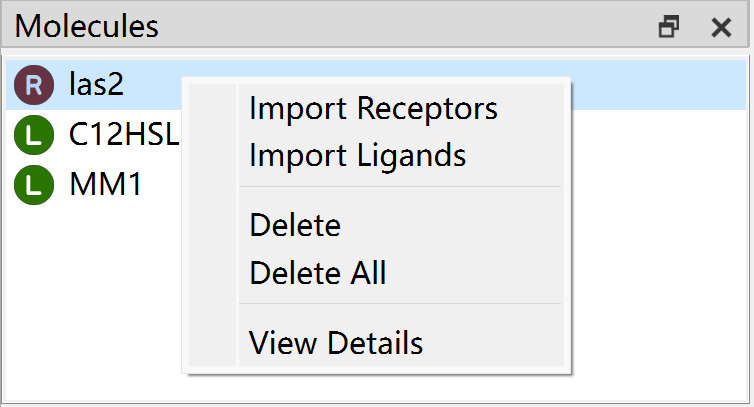
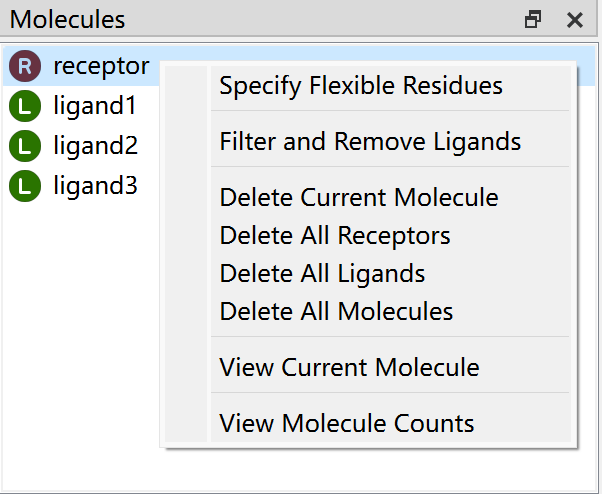
update docs

Changed region(s): [[0.0, 0.0, 1.0, 1.0]]

diff --git a/src/window.py b/src/window.py
@@ -1189,14 +1189,22 @@ class DockeyMainWindow(QMainWindow, PyMOLDesktopGUI):
 		r = self.get_current_receptor()
 
 		if not r: return
-		residues = self.cmd.iterate('resn')
 
-		print(residues)
+		items = []
+		for res in get_molecule_residues(r.content, r.format):
+			items.append("Chain {}, {}-{}".format(res[1], res[2].capitalize(), res[3]))
 
-		#points = self.cmd.get_extent()
-		#self.box_adjuster.params.update_dimension(points)
-		#draw_gridbox(self.cmd, self.box_adjuster.params)
-		#self.box_dock.setVisible(True)
+		res, ok = QInputDialog.getItem(self, "Select a residue", "Draw grid box centered on a selected residue:", items)
+
+		if not ok: return
+
+		sel = res.replace(', ', ' and resn ').replace('-', ' and resi ')
+		
+
+		points = self.cmd.get_extent(sel)
+		self.box_adjuster.params.update_dimension(points)
+		draw_gridbox(self.cmd, self.box_adjuster.params)
+		self.box_dock.setVisible(True)
 
 	def draw_custom_box(self):
 		r = self.get_current_receptor()

diff --git a/src/worker.py b/src/worker.py
@@ -443,6 +443,10 @@ class BaseWorker(QRunnable):
 	#	self.job_query = None
 	#	self.producer.close()
 
+	#def __del__(self):
+	#	if self.tempdir and self.tempdir.isValid():
+	#		self.tempdir.remove()
+
 	def update_progress(self, data):
 		sql = "UPDATE jobs SET progress=? WHERE id=?"
 		DB.query(sql, (data['message'], self.job.id))
@@ -537,7 +541,7 @@ class BaseWorker(QRunnable):
 
 	def make_temp_dir(self):
 		self.tempdir = QTemporaryDir()
-		self.tempdir.setAutoRemove(False)
+		#self.tempdir.setAutoRemove(False)
 
 		if not self.tempdir.isValid():
 			raise Exception(

diff --git a/docs/conf.py b/docs/conf.py
@@ -24,8 +24,7 @@ version = __version__
 # -- General configuration ---------------------------------------------------
 # https://www.sphinx-doc.org/en/master/usage/configuration.html#general-configuration
 
-extensions = ['sphinx_rtd_size']
-sphinx_rtd_size_width = "80%"
+extensions = []
 
 templates_path = ['_templates']
 exclude_patterns = ['_build', 'Thumbs.db', '.DS_Store']

diff --git a/src/table.py b/src/table.py
@@ -23,7 +23,7 @@ __all__ = ['DockeyListView', 'JobTableView', 'PoseTableView',
 class MoleculeDetailDialog(QDialog):
 	def __init__(self, parent, info):
 		super(MoleculeDetailDialog, self).__init__(parent)
-		self.setWindowTitle("Molecular Details")
+		self.setWindowTitle("Molecule counts")
 		layout = QVBoxLayout()
 		self.setLayout(layout)
 

diff --git a/src/config.py b/src/config.py
@@ -18,7 +18,7 @@ __all__ = ['DOCKEY_VERSION', 'DOCKEY_BUILD', 'DOCKEY_ABOUT',
 
 DOCKEY_VERSION = "0.10.0"
 
-DOCKEY_BUILD = "231105"
+DOCKEY_BUILD = "231108"
 
 DOCKEY_ABOUT = """
 <p>Dockey - Molecular Docking and Virtual Screening</p>

diff --git a/docs/docking.rst b/docs/docking.rst
@@ -21,6 +21,8 @@ Before running molecular docking, you can specify search space for receptor by a
 
 #. You can go to **Grid** menu -> **Draw Bounding Box** to draw a grid box enveloping the whole receptor.
 
+#. You can go to **Grid** menu -> **Draw Residue Centered Box** to select a residue and draw a grid box centered on that residue.
+
 #. You can also go to **Grid** menu -> **Draw Custom Box** to draw a grid box whose size and position can be adjusted through gridbox panel.
 
 .. rst-class:: wy-text-center
@@ -33,7 +35,7 @@ You are allowed to observe the box size and position in PyMOL view.
 
 .. note::
 
-	The value of points in each dimension must be even number.
+	The value of points in each dimension must be even number. Don't forget to click **Save grid box** button after setting grid box.
 
 Performing basic docking
 ------------------------
@@ -120,13 +122,13 @@ Similar to AutoDock Vina, QuickVina-W also needs two steps.
 Performing flexible docking
 ---------------------------
 
-Before performing flexible docking, you should specify flex residues for receptors. In molecular list, right-click a receptor, go to ``Set Flexible Residues`` menu to open dialog:
+Before performing flexible docking, you should specify flex residues for receptors. In molecular list, right-click a receptor, go to **Specify Flexible Residues** menu to open dialog:
 
 .. rst-class:: wy-text-center
 
 	|flexres|
 
-In the residule list, select residues as flexible residues. In addition, you can check ``Select bonds to disallowed`` and click a flexible residue to select bonds to disallowed.
+In the residule list, select residues as flexible residues. In addition, you can check **Select bonds to disallowed** and click a flexible residue to select some bonds to disallowed.
 
 .. rst-class:: wy-text-center
 
@@ -136,22 +138,30 @@ The Dockey will automatically split the receptor coordinates into two PDBQT file
 
 After specification of flexible residues, you can follow the performing basic docking steps to start flexible docking.
 
-Docking Jobs
-------------
+Docking tasks
+-------------
 
-After setting finished for one of docking engines, the each ligand will be docked to each receptor, the generated job queue can be viewed in job table.
+After setting finished for one of docking engines, the each ligand will be docked to each receptor, the generated task queue can be viewed in task table.
 
 .. rst-class:: wy-text-center
 
 	|jobtb|
 
-In job table, you can view the status and progress of each docking job. The status includes pending, running, success and failure.
+In task table, you can view the status and progress of each docking task. The status includes waiting, running, success, failure and stopped.
 
-You are allowed to view the start time and end time of job by using **View Details** in job table right-click menu.
+You are allowed to view the start time and end time of task by using **View Current Task** in task table right-click menu.
 
 .. rst-class:: wy-text-center
 
 	|jobdt|
+
+You are allowed to use **Stop Current Task** to stop the running task. Note that the stopped task can not be restarted.
+
+You can use **View Task Counts** to view the number of tasks.
+
+.. rst-class:: wy-text-center
+
+	|jobnum|
 
 Parallel docking
 ----------------
@@ -215,3 +225,5 @@ Go to **Toolbar** -> click |cpu| to open computing resource usage dialog where y
 	:width: 500
 .. |cpu| image:: _static/cpu.svg
 	:width: 24
+.. |jobnum| image:: _static/jobnum.png
+	:width: 300

diff --git a/docs/input.rst b/docs/input.rst
@@ -81,19 +81,51 @@ The imported ligands and receptors will be separately displayed in molecular lis
 
 	|mol|
 
-The molecular list has right-click menu. You can use **Import Receptors** and **Import Ligands** in menu list to import receptor and ligand files.
+The molecular list has right-click menu.
 
 .. rst-class:: wy-text-center
 
 	|molmenu|
 
-You also allowed to use **Delete** to remove current selected molecule and **Delete All** to remove all molecules from Dockey.
+Delete molecules
+^^^^^^^^^^^^^^^^
 
-You can use **View Details** to obtain detailed information of molecule including number of atoms, bonds, heavy atoms, residues and rotors, formula, molecular weight as well as calculated *logp*.
+You are allowed to use:
+
+1. **Delete Current Molecule** to remove current selected molecule.
+2. **Delete All Receptors** to remove all receptors from molecular list.
+3. **Delete All Ligands** to remove all ligands from molecular list.
+4. **Delete All Molecules** to remove all receptors and ligands from molecular list.
+
+Filter and remove ligands
+^^^^^^^^^^^^^^^^^^^^^^^^^
+
+You are also allowed to use filter conditions to find molecules and remove them from molecular list.
+
+.. rst-class:: wy-text-center
+
+	|ligfilter|
+
+You can use **molecular weight**, **number of rotatable bonds** and **calculated logP** to filter ligands. The ligands that math these filters will be removed from molecular list.
+
+View molecule details
+^^^^^^^^^^^^^^^^^^^^^
+
+You can use **View Current Molecule** to obtain detailed information of molecule including number of atoms, bonds, heavy atoms, residues and rotors, formula, molecular weight as well as calculated *logp*.
 
 .. rst-class:: wy-text-center
 
 	|molinfo|
+
+View molecule counts
+^^^^^^^^^^^^^^^^^^^^
+
+You can use **View Molecule Counts** to view the number of receptors and ligands.
+
+.. rst-class:: wy-text-center
+
+	|molnum|
+
 
 .. |pdb| image:: _static/pdb.png
 	:width: 400
@@ -108,4 +140,8 @@ You can use **View Details** to obtain detailed information of molecule includin
 .. |molmenu| image:: _static/molmenus.png
 	:width: 400
 .. |molinfo| image:: _static/molinfo.png
+	:width: 400
+.. |ligfilter| image:: _static/ligfilter.png
+	:width: 500
+.. |molnum| image:: _static/molnum.png
 	:width: 400

diff --git a/docs/prepare.rst b/docs/prepare.rst
@@ -4,7 +4,7 @@ Molecular Preparation
 Receptor Preprocessing
 ----------------------
 
-By default, the Dockey will automatically preprocess the receptors using `PDBFixer <https://github.com/openmm/pdbfixer>`_ or `PDB2PQR <https://github.com/Electrostatics/pdb2pqr>`_. You can go to **Edit** menu -> **Settings** -> **Receptor preprocessing** tab to disable or enable preprocessing tools and set the corresponding parameters. The setting panel was shown in following image:
+Sometimes, your receptor PDB file may have some problems during molecular docking. You can use `PDBFixer <https://github.com/openmm/pdbfixer>`_ or `PDB2PQR <https://github.com/Electrostatics/pdb2pqr>`_ to fix the PDB file. You can go to **Edit** menu -> **Settings** -> **Receptor preprocessing** tab to disable or enable preprocessing tools and set the corresponding parameters. The setting panel was shown in following image:
 
 .. rst-class:: wy-text-center
 
